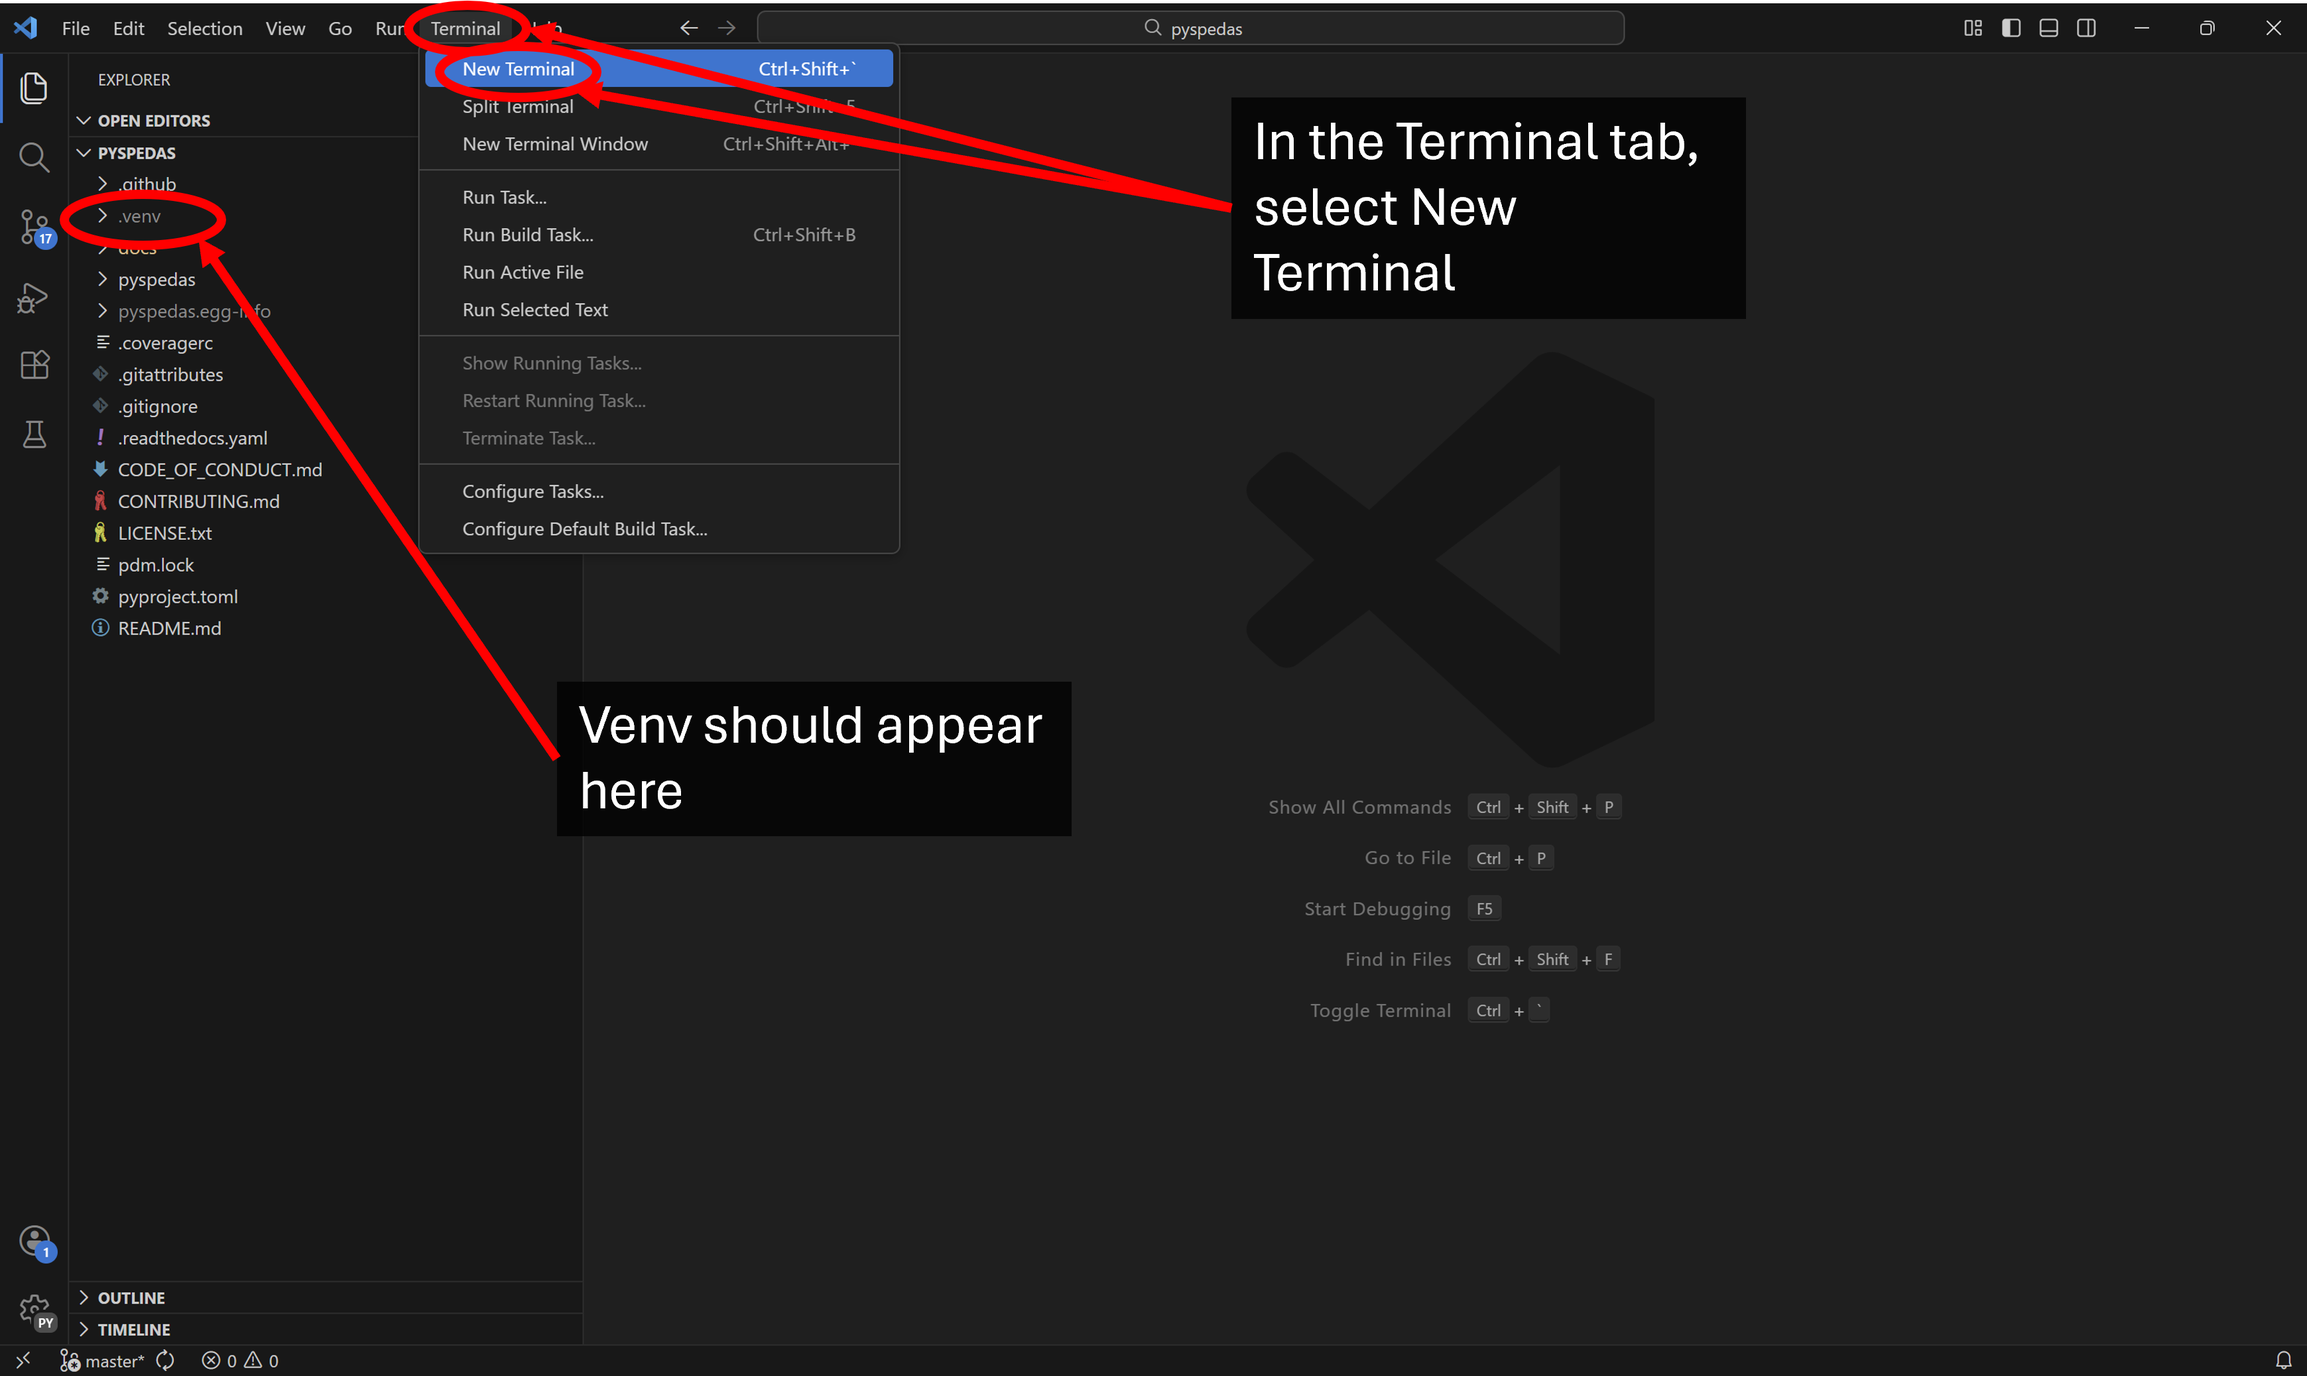
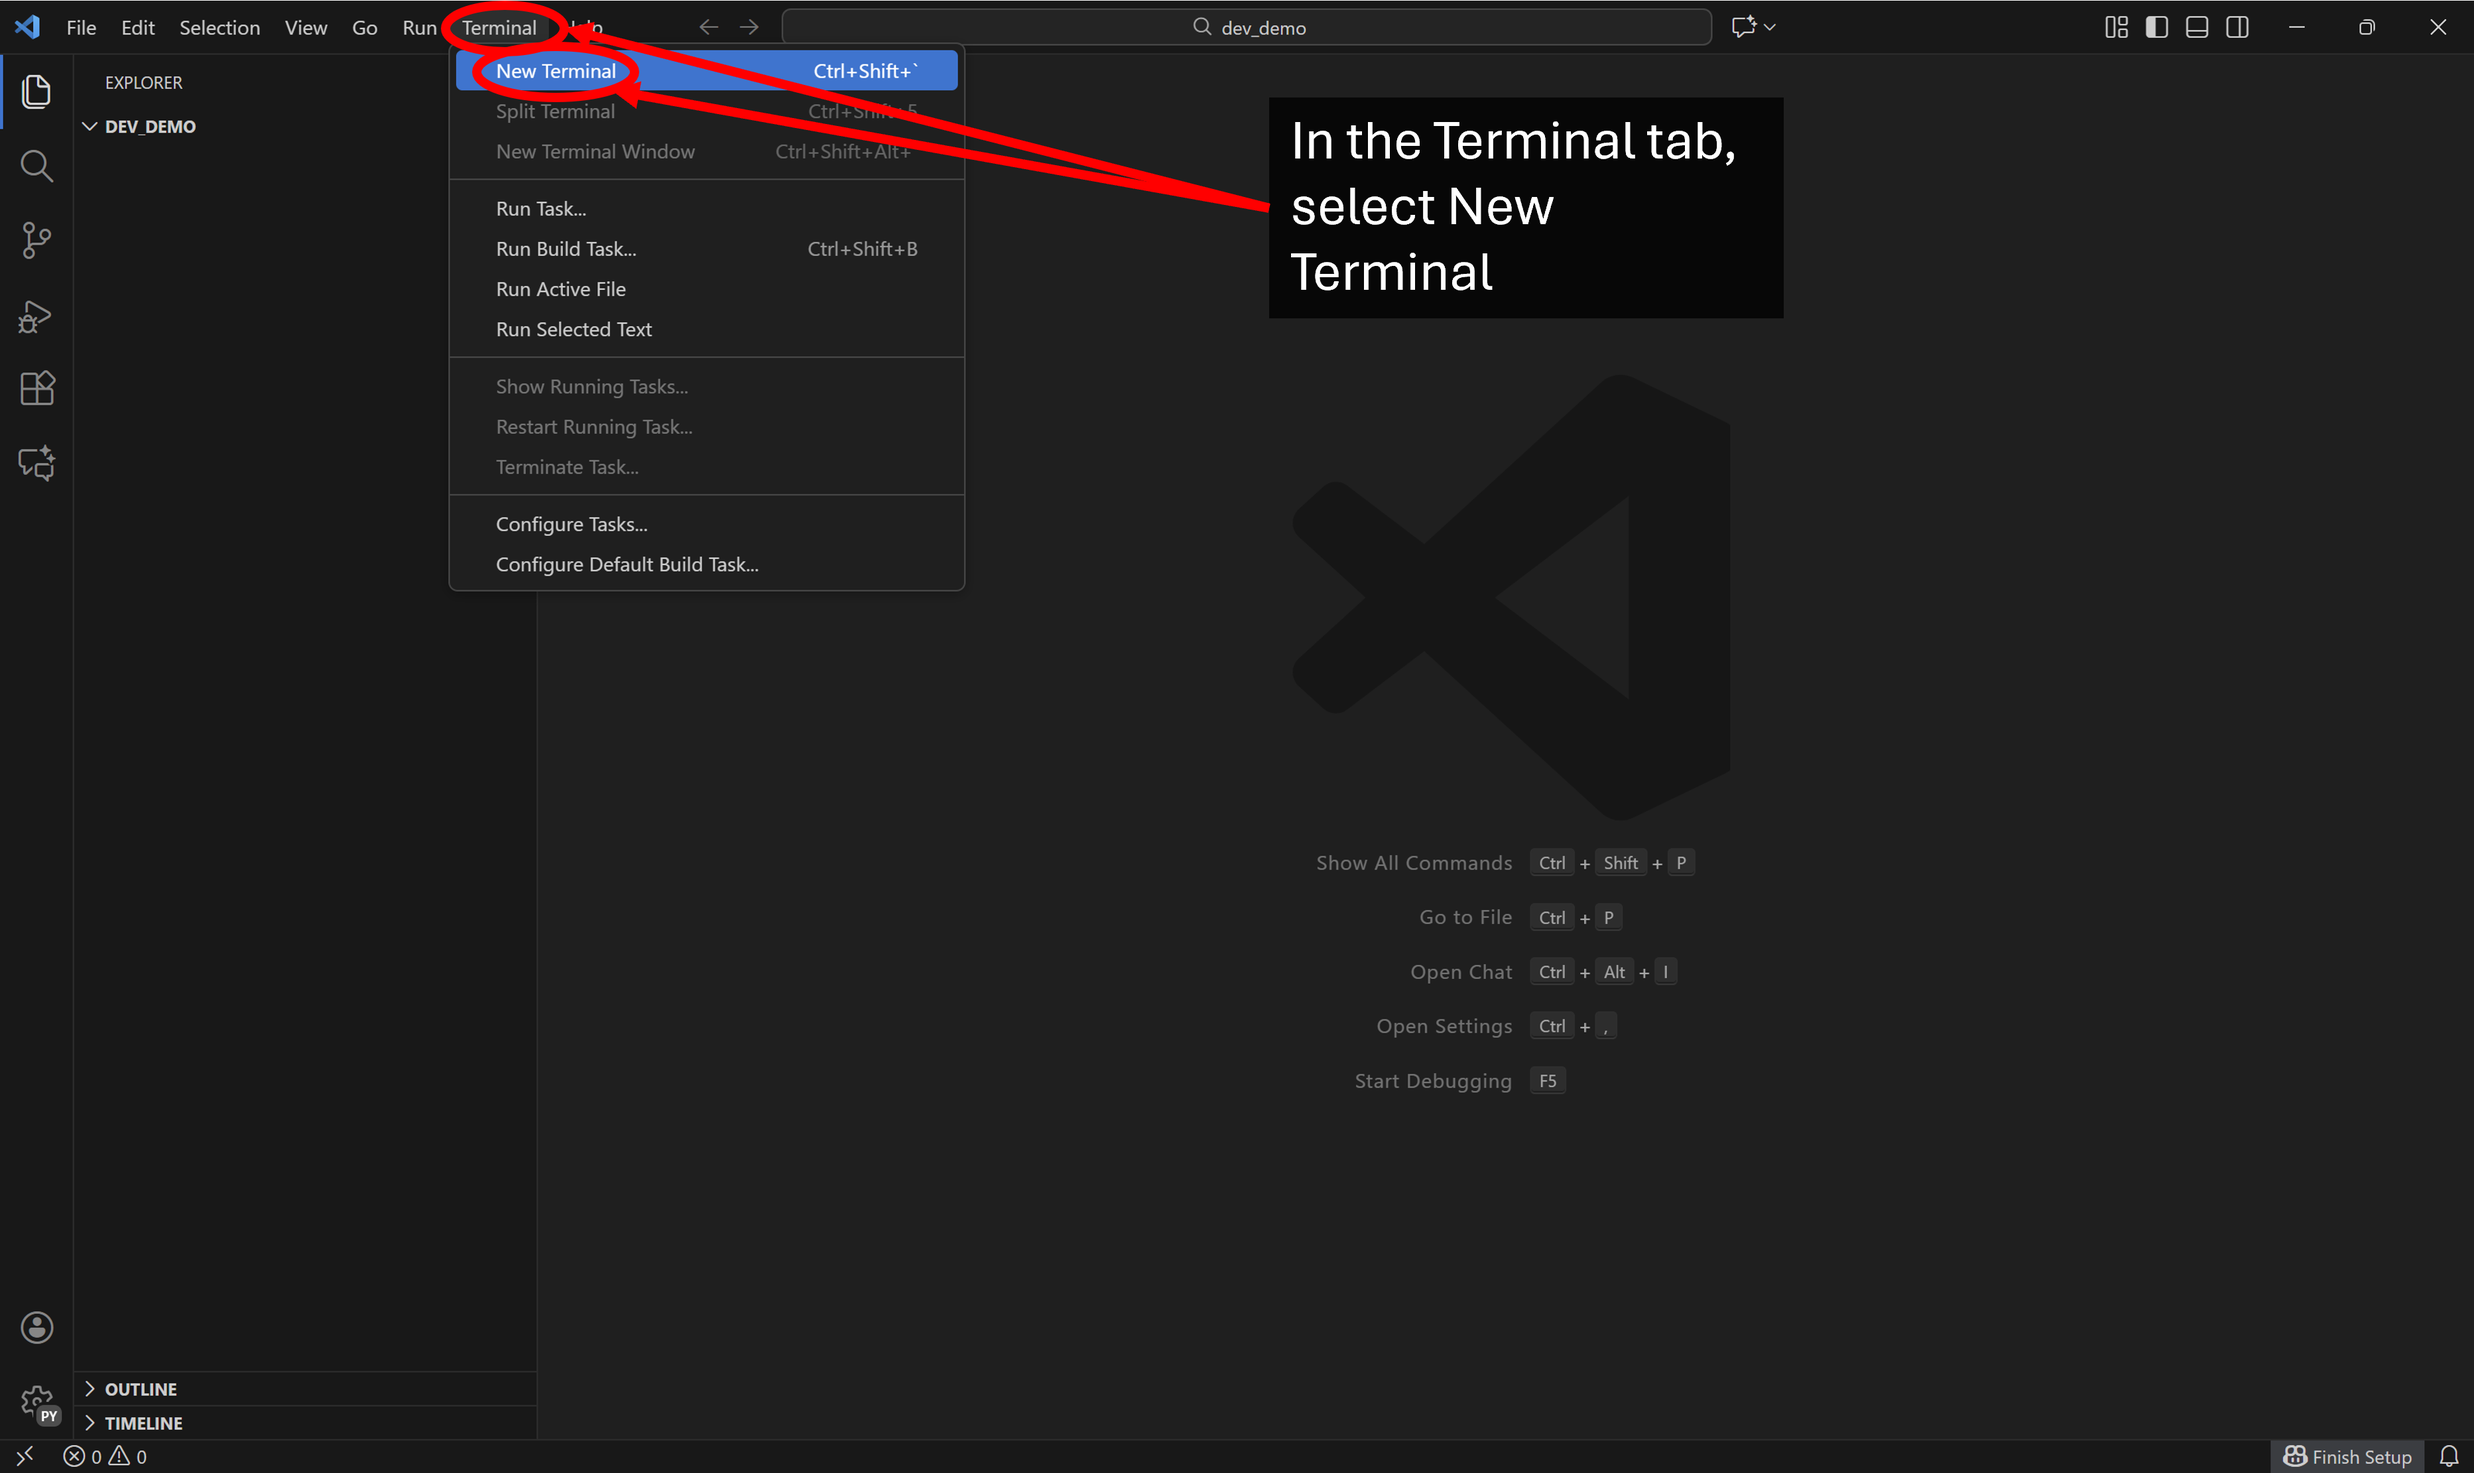
Added sections on env extension, cloning via term.

diff --git a/docs/source/dev_vscode.rst b/docs/source/dev_vscode.rst
@@ -4,7 +4,7 @@
 Setting up a Visual Studio (VS) Code development environment for PySPEDAS
 =========================================================================
 
-This guide will describe the process for setting up VS Code to clone PySPEDAS from GitHub and create a developement environment for it. These instructions assume you're working in a Windows operating system.
+This guide will describe the process for setting up VS Code to clone PySPEDAS from GitHub and creating a developement environment for it. These instructions assume you're working in a Windows operating system--VS Code is available for Linux and Mac as well, but the terminal commands may differ.
 
 Install Python Executable
 -------------------------
@@ -17,85 +17,111 @@ If a Python executable has not already been installed, the following command can
 
 Where the decimals values indicate the Python version desired. If no other arguments are set, the executable can be located at %appdata%, under C:\\Users\\YourUsername\\AppData\\Local\\Programs\\Python\\Python310 (in this case).
 
+Install Git
+-----------
+
+VS Code does not include Git (although it has integrated git functionality by default); if you do not already have Git installed, it can be downloaded and installed from their website: https://git-scm.com/ .
+
 Install VS Code
 ---------------
 
-If you don't already have it, download and install the VS Code Interactive Development Environment (IDE).  It can be downloaded from the VS Code website: https://code.visualstudio.com/download .
+If VS Code has not already been installed, it can be downloaded from the VS Code website: https://code.visualstudio.com/download . Once it is downloaded and installed, open a VS Code window. Since this guide involves adjusting VS Code profile settings, it might be a good idea to create a new VS Code profile for PySPEDAS developement using the guide on the VS Code website: https://code.visualstudio.com/docs/configure/profiles .
 
-Clone PySPEDAS from GitHub
---------------------------
+Install VS Code Python Extensions
+---------------------------------
 
-When a VS Code window is opened for the first time under a new profile, the Explorer pane should already be open. Since a folder hasn't been selected yet, there should be an option to Clone Repository. Click this and select Clone from GitHub. Alternatively, this can be done from the Source Control pane (Ctrl+Shift+G), or by typing "Git: Clone" in the Command Pallette (Ctrl+Shift+P).
-
-.. image:: _static/vscode_initiateclone.png
-   :align: center
-   :class: imgborder
-
-Follow the prompts to sign in, select, and authorize access to a GitHub account where PySPEDAS or a PySPEDAS fork could be accessed from.
-
-After GitHub has been authorized, return to the VS Code window, and search or select the spedas/pyspedas repository (PySPEDAS team members) or your personal fork of the repo (outside contributors). You'll then be prompted with a file explorer window to select a folder to serve as the repository destination.
-
-.. image:: _static/vscode_chooserepo.png
-   :align: center
-   :class: imgborder
-
-A dialogue box will then ask if you would like to open the repository. Click Open, and a dropdown for the repo folder will be opened in the Explorer pane. Once pyspedas has been selected, you'll be prompted to open the repository in the current window. Click yes, and the Explorer pane will now show a listed view of the pyspedas files. In the bottom left, you should see the Source Control pane icon, accompanied by the name of the branch you're currently working in. Clicking this branch name will open a dropdown menu allowing you to select/create branches, if so desired.
-
-Install VS Code Python Extension
---------------------------------
-
-Open the Extensions pane (Ctrl+Shift+X), and locate the Python extension. It's usually one of the top recommendeed extensions, but it can be located using the search bar at the top of the Extensions pane. Click on its extension entry and click install. 
+Open the Extensions pane (Ctrl+Shift+X), and locate the Python extension. It's usually one of the top recommended extensions, but it can be located using the search bar at the top of the Extensions pane. Click on its extension entry and click install. 
 
 .. image:: _static/vscode_installext.png
    :align: center
    :class: imgborder
 
-Create Virtual Environment (Venv) and Set Interpreter
------------------------------------------------------
+After it has been installed, there should be 4 extensions in the "Installed" category: Python Environments, Python Debugger, Python, and Pylance. The Python extension page and the extensions pane can now be closed.
 
-In the search bar, select or type Show and Run Commands, or use the keyboard shortcut (Ctrl+Shift+P). 
+Clone PySPEDAS from GitHub
+--------------------------
 
-.. image:: _static/vscode_showandrun.png
+Open the Accounts menu by clicking the account icon, and click "Sign in to Sync Settings". A web browser window will open with a prompt to select or sign-in to a GitHub account. Follow the prompts to authorize permissions and connect your GitHub account, and then switch back to the VS Code window. 
+
+.. image:: _static/vscode_signin.png
    :align: center
    :class: imgborder
 
-Then, search or choose "Python: Select Interpreter".
+In the File tab, click "Open Folder...", or use the keyboard shortcut (Ctrl+K Ctrl+O). A File Explorer window will open--navigate to where the repository shall be cloned. When the desired folder has been opened, click "Select Folder" at the bottom-right of the File Explorer window. The title of the VS Code workspace should now be the same as that of the selected folder. 
 
-.. image:: _static/vscode_selectinterpreter.png
-   :align: center
-   :class: imgborder
-
-A list of interpreters will then be displayed. Select Create Virtual Environment.
-
-.. image:: _static/vscode_createenv.png
-   :align: center
-   :class: imgborder
-
-A list should then show two options: Venv (virtual environment) or Conda (conda environment). Click Venv.
-
-.. image:: _static/vscode_choosevenv.png
-   :align: center
-   :class: imgborder
-
-A list of python.exe paths will then be displayed, along with their full paths to their installations. Select the desired python version (in this case, 3.10.11).
-
-.. image:: _static/vscode_choosepy.png
-   :align: center
-   :class: imgborder
-
-The dropdown menu will then provide options for installing dependancies. For now, skip this first page by clicking OK.
-
-.. image:: _static/vscode_skip.png
-   :align: center
-   :class: imgborder
-
-The dropdown menu should then give the option to install docs\requirements.txt from the PySPEDAS project directory. Check this box, then proceed by clicking OK. The Venv will then be created in the project directory, and should be set by the interpreter by default. If restarting the session, the Venv interpreter can be selected by opening the Command Pallette (Ctrl+Shift+P), clicking Python: Select Interpreter, and selecting the Venv in the dropdown list (it should be the recommended interpreter). With the Venv created and the interpreter set, open a the terminal pane by clicking the Terminal tab at the top of the window  and clicking New Terminal. Alternatively, the terminal pane can be opened using the keyboard shortcut (Ctrl+Shift+`). 
+In the Terminal tab at the top, click New Terminal, or use the keyboard shortcut (Ctrl+Shift+`)
 
 .. image:: _static/vscode_openterminal.png
    :align: center
    :class: imgborder
 
-With the terminal pane opened, a powershell terminal should be loaded, and the Venv should be activated automatically. This is where the following packages will be installed.
+A Terminal pane should open on the bottom of the window as a Powershell (pwsh) terminal. The current path should be to that of the folder which was just opened. Clone the PySPEDAS repository (or the personal fork for outside contributors) by running the following command (for outside contributors, replace the hyperlink to the link to the personal fork):
+
+.. code-block:: bash
+
+    git clone https://github.com/spedas/pyspedas
+
+A "pyspedas" folder will be downloaded into the currently opened folder. Once this has finished, kill the terminal session by clicking the trashcan icon in the terminal pane. 
+
+The current workspace can changed to this new "pyspedas" folder by again opening the File tab at the top and by clicking "Open Folder...", or by using the keyboard shortcut (Ctrl+K Ctrl+O). A File Explorer window will open, and the pyspedas folder can be set as the current workspace by navigating to it and by clicking "Select Folder", like before.
+
+In the bottom left, you should see the Source Control pane icon, accompanied by the name of the branch you're currently working in. Clicking this branch name will open a dropdown menu from the search bar at the top of the window allowing you to select/create branches, if so desired.
+
+Create Virtual Environment (Venv) and Set Interpreter
+-----------------------------------------------------
+The recommended method of creating and managing environments for PySPEDAS is by using the Python Environments extension; however, it needs to be enabled in the profile settings: open the Settings page using the Manage Profile (gear) icon, or using the keyboard shortcut (Ctrl+,). 
+
+.. image:: _static/vscode_opensettings.png
+   :align: center
+   :class: imgborder
+
+Use the searchbar in the Settings page to search "python.useEnvironmentsExtension". There should be a single result titled "Python: Use Environments Extension"--check the box, and close the Settings window.
+
+.. image:: _static/vscode_useenvext.png
+   :align: center
+   :class: imgborder
+
+To apply these changes, close and reload VS Code. 
+
+Make sure the PySPEDAS project folder has been set as the workspace, then navigate to the Python pane. The pyspedas project should be listed at the top of the pane, in the Python Projects section (along with the directory where it is saved). It will likely show a global python executable directly underneath it, indicating the currently selected interpreter by default. At the bottom of the pane are the environment managers. In the "venv" section, click the plus icon to create a new Venv.
+
+.. image:: _static/vscode_createenv.png
+   :align: center
+   :class: imgborder
+
+A dropdown menu will appear from the search bar at the top of the window, with "Quick Create" and "Custom" options. Quick Create functions as if you had chosen to create a Venv via the Python: Select Interpreter command from the Command Palette. In this case, click Custom:
+
+.. image:: _static/vscode_customenv.png
+   :align: center
+   :class: imgborder
+
+Select a Python interpreter from the dropdown list (in this case, the global Python 3.10 installation):
+
+.. image:: _static/vscode_chooseint.png
+   :align: center
+   :class: imgborder
+
+Enter a name for the new environment (in this case, pyspedas_dev_py310):
+
+.. image:: _static/vscode_setname.png
+   :align: center
+   :class: imgborder
+
+Select Install project dependancies:
+
+.. image:: _static/vscode_choosedepopt.png
+   :align: center
+   :class: imgborder
+
+Select the requirements.txt file, then click OK: 
+ 
+.. image:: _static/vscode_choosereqtxt.png
+   :align: center
+   :class: imgborder
+
+The venv will begin creation, and once complete, VS CODE will open the Explorer pane, showing the new Venv. If you open the Python pane, the new venv should also be listed underneath the pyspedas project, since it should automatically be detected as the interpreter. If it somehow isn't, opening the venv dropdown menu in Environment Managers section of the Python pane should show the venv that was created--clicking on the checkmark (which appears if the cursor hovers over its name) sets that environment as the interpreter.
+
+With the Venv created and the interpreter set, open a new terminal, either through Terminal>New Terminal or the keyboard shortcut (Ctrl+Shift+`). With the terminal pane opened, a Powershell (pwsh) terminal should be loaded, and the Venv should be activated automatically. This is where the following packages will be installed.
 
 .. image:: _static/vscode_terminalpane.png
    :align: center
@@ -104,12 +130,24 @@ With the terminal pane opened, a powershell terminal should be loaded, and the V
 Install Dependencies
 --------------------------------
 
-PySPEDAS uses the pdm package management tool to manage the pyspedas environment.  In the terminal pane, us pip to install pdm to the Venv: 
+PySPEDAS uses the pdm package management tool to manage the pyspedas environment, with uv as a resolver.  In the terminal pane, use pip to install pdm to the Venv: 
 
 .. code-block:: bash
 
     pip install pdm
-    
+
+And then uv:
+
+.. code-block:: bash
+
+    pip install uv
+
+And configure pdm to use uv:
+
+.. code-block:: bash
+
+    pdm config use_uv true
+
 Then pdm sync can be used to make sure all the dependencies are downloaded or up to date:
 
 .. code-block:: bash
